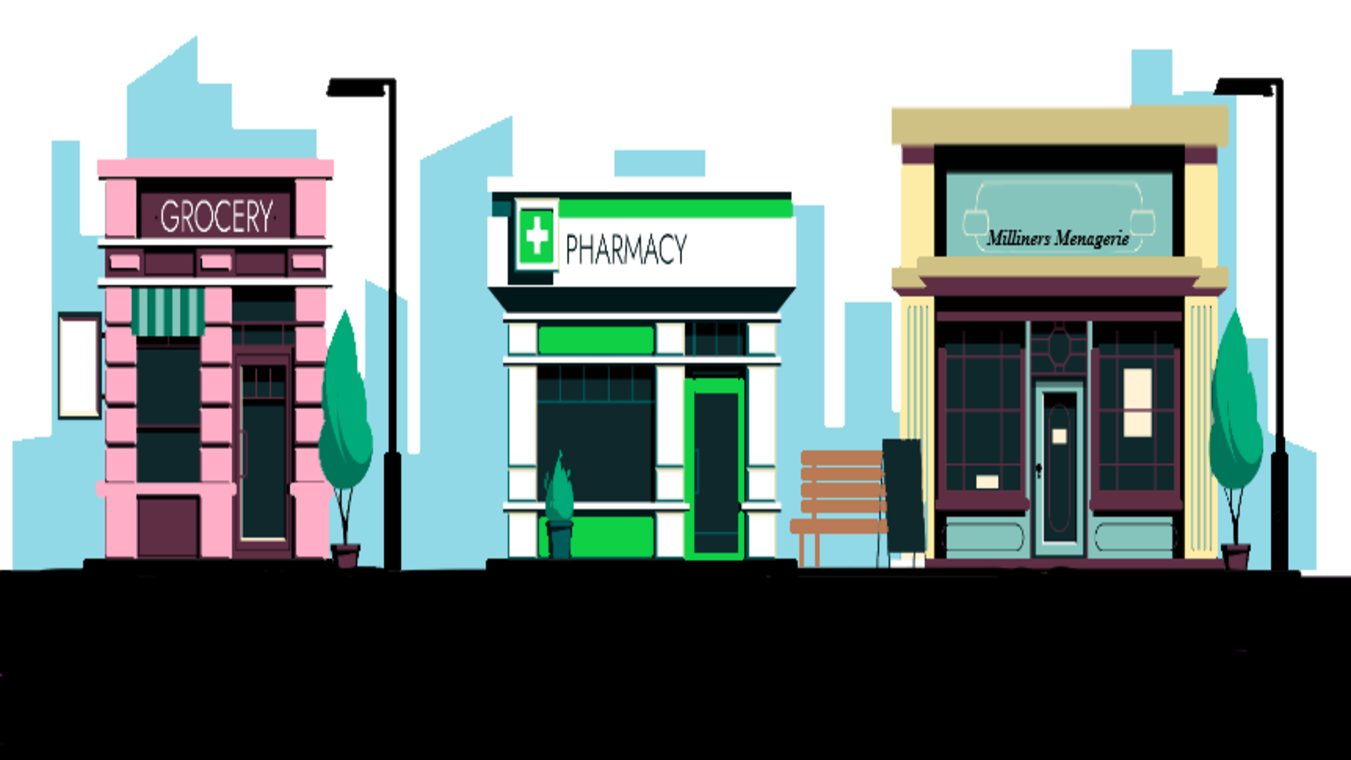
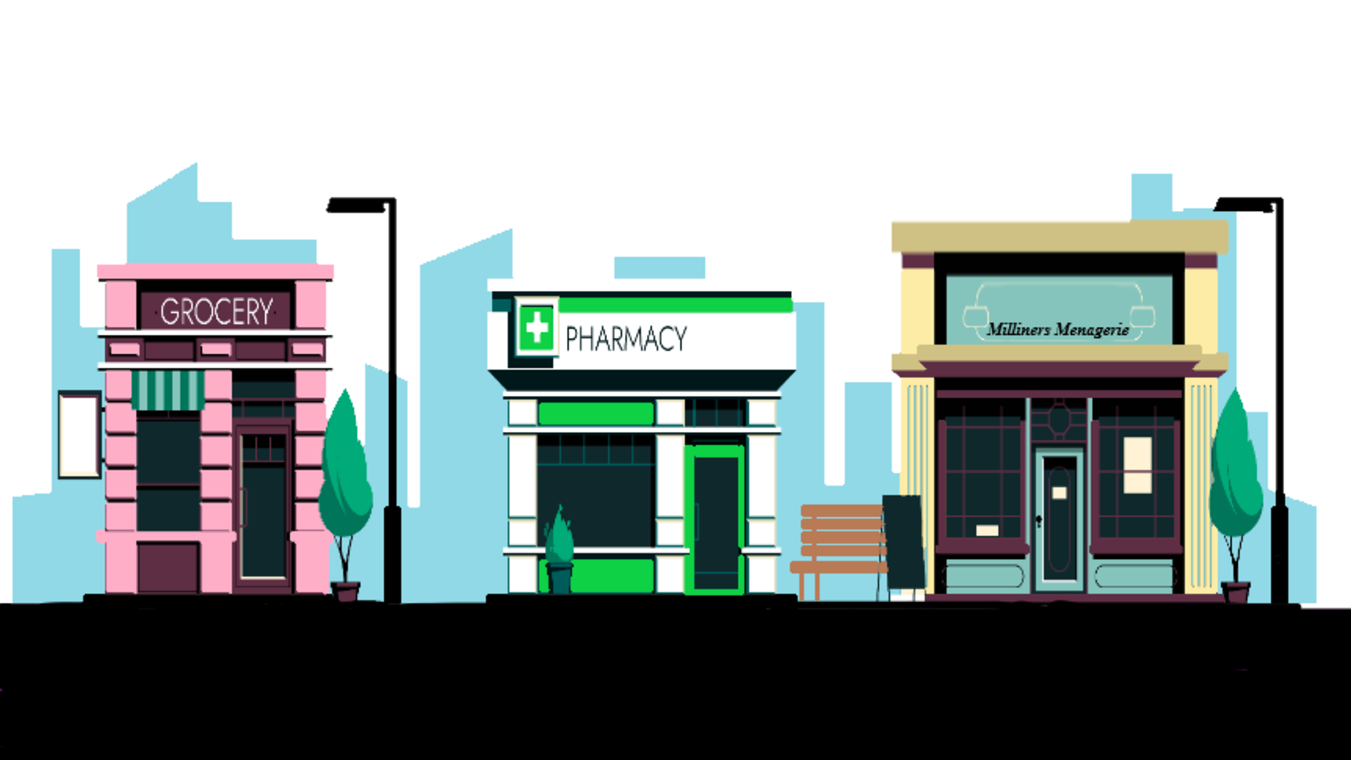
Redo shop images with no vertical stretch, just placed onto larger canvas
Adjust zoom settings accordingly

diff --git a/shadowtheatre.js b/shadowtheatre.js
@@ -1002,7 +1002,7 @@ function changeArea(destArea, destX) {
 		// No fadeout because it's a seamless transition
 	} else if (destArea == "milliner") {
 		const zoomTime = 3000;
-		zoomIn(screen, MILLINER_CENTERX, 450);
+		zoomIn(screen, MILLINER_CENTERX, 510);
 		swapTime += zoomTime;
 		endTime += zoomTime;
 		// Delayed fadeout
@@ -1011,7 +1011,7 @@ function changeArea(destArea, destX) {
 		}, zoomTime - TRANSITION_TIME);
 	} else if (destArea == "candyland") {
 		const zoomTime = 3000;
-		zoomIn(screen, CANDYLAND_CENTERX, 450);
+		zoomIn(screen, CANDYLAND_CENTERX, 510);
 		swapTime += zoomTime;
 		endTime += zoomTime;
 		setTimeout(function () {
